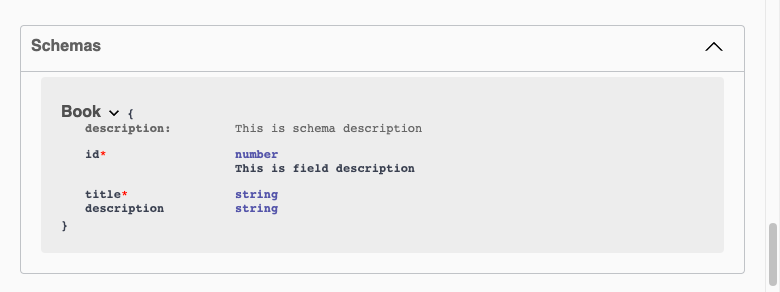
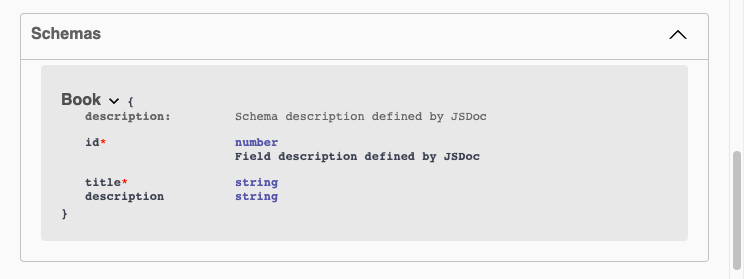
docs: getting started

diff --git a/examples/tspec-basic-example/index.ts b/examples/tspec-basic-example/index.ts
@@ -1,23 +1,20 @@
 import { Tspec } from "tspec";
 
-/** Book Schema */
+/** Schema description defined by JSDoc */
 interface Book {
-  /** Book ID */
+  /** Field description defined by JSDoc */
   id: number;
-  /** Book title */
   title: string;
-  /** Book description */
   description?: string;
 }
 
 export type BookApiSpec = Tspec.DefineApiSpec<{
-  tags: ['Book'],
   paths: {
     '/books/{id}': {
       get: {
         summary: 'Get book by id',
         path: { id: number },
-        responses: { 200: Book[] },
+        responses: { 200: Book },
       },
     },
   }

diff --git a/docs/guide/getting-started.md b/docs/guide/getting-started.md
@@ -4,7 +4,7 @@ outline: deep
 
 # Getting Started
 
-On this page, we will learn how to use tspec to generate OpenAPI Specification from TypeScript types and serve it with Swagger UI.
+On this page, we will learn how to use tspec to generate [OpenAPI Specification](https://swagger.io/specification/) from TypeScript types and serve it with [Swagger UI](https://swagger.io/tools/swagger-ui/).
 
 
 ## Installing
@@ -59,9 +59,9 @@ Let's define a simple `Book` type and `BookApiSpec`:
 ```ts[index.ts]
 import { Tspec } from "tspec";
 
-/** This is schema description */
+/** Schema description defined by JSDoc */
 interface Book {
-  /** This is field description */
+  /** Field description defined by JSDoc */
   id: number;
   title: string;
   description?: string;
@@ -132,11 +132,11 @@ paths:
 components:
   schemas:
     Book:
-      description: This is schema description
+      description: Schema description defined by JSDoc
       type: object
       properties:
         id:
-          description: This is field description
+          description: Field description defined by JSDoc
           type: number
         title:
           type: string
@@ -190,11 +190,11 @@ components:
   "components": {
     "schemas": {
       "Book": {
-        "description": "This is schema description",
+        "description": "Schema description defined by JSDoc",
         "type": "object",
         "properties": {
           "id": {
-            "description": "This is field description",
+            "description": "Field description defined by JSDoc",
             "type": "number"
           },
           "title": {
@@ -240,7 +240,7 @@ pnpm tspec server --port 3000
 ```
 :::
 
-Then, open http://localhost:3000/docs in your browser.
+Then, open `http://localhost:3000/docs` in your browser.
 
 You will see the Swagger UI page:
 
